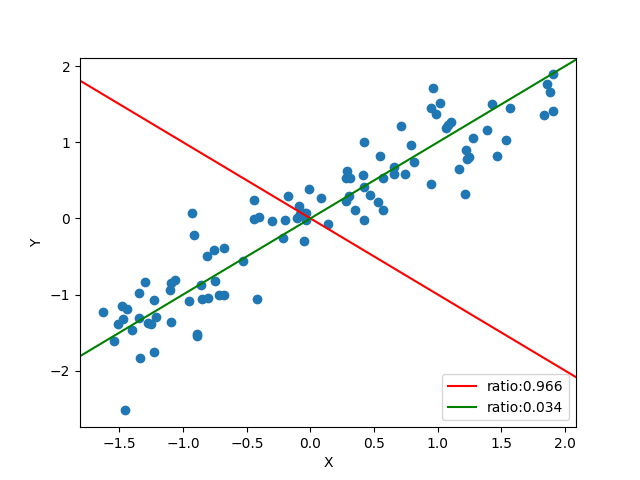
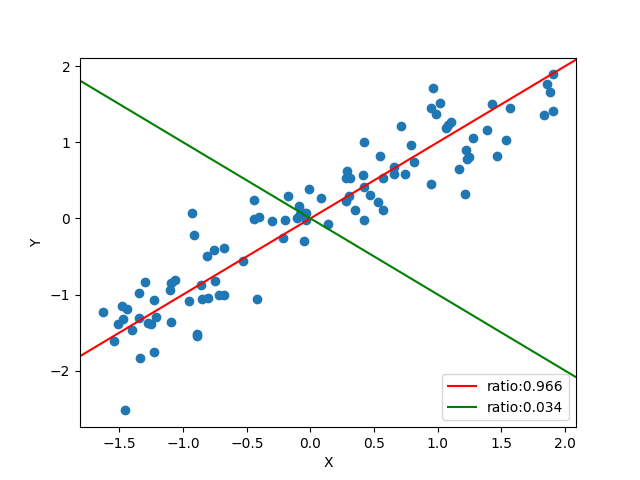
グラフの色をわかりやすく

diff --git a/ex4/k_furuta/main.py b/ex4/k_furuta/main.py
@@ -87,10 +87,10 @@ def plot_PCA(data, eigen_vector, contribution_rate, file_name):
         ax.scatter(data[:, 0], data[:, 1])
         # 主成分の方向を描画
         ax.axline(
-            (0, 0), v[0], color="red", label=f"ratio:{round(contribution_rate[0],3)}"
+            (0, 0), v[:,0], color="red", label=f"ratio:{round(contribution_rate[0],3)}"
         )
         ax.axline(
-            (0, 0), v[1], color="green", label=f"ratio:{round(contribution_rate[1],3)}"
+            (0, 0), v[:,1], color="green", label=f"ratio:{round(contribution_rate[1],3)}"
         )
         ax.legend()
         # 画像として保存
